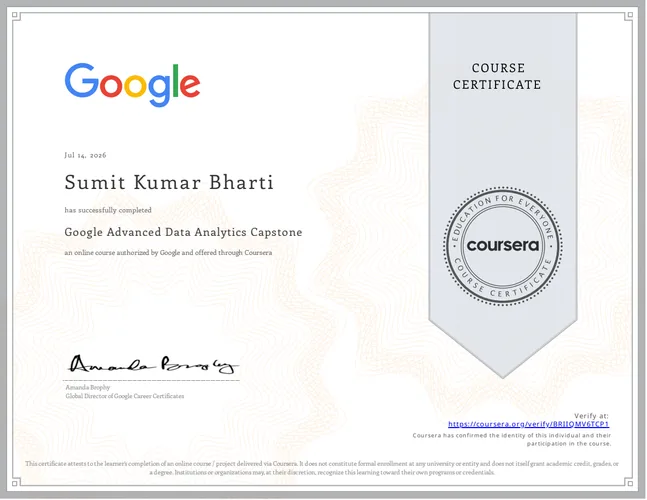
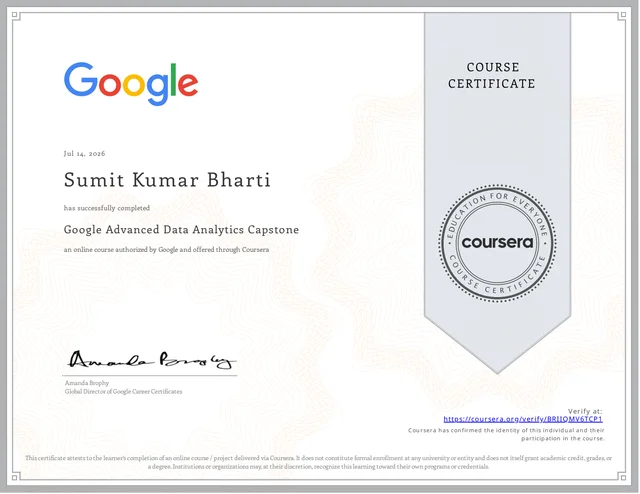
fix(vault): fix Google Advanced Data Analytics Capstone preview and thumbnail path

diff --git a/src/lib/certificatesData.ts b/src/lib/certificatesData.ts
@@ -146,7 +146,7 @@ export const CERTIFICATION_VAULT: VaultCertificate[] = [
     issueDate: "Jul 14, 2026",
     year: "2026",
     image: "/uploads/previews/google-adv-capstone.png",
-    thumbnail: "/uploads/thumbs/all.webp",
+    thumbnail: "/uploads/thumbs/google-adv-capstone.webp",
     credentialId: "BRIIQMV6TCP1",
     score: "100%",
     verificationUrl: "https://coursera.org/verify/BRIIQMV6TCP1",
